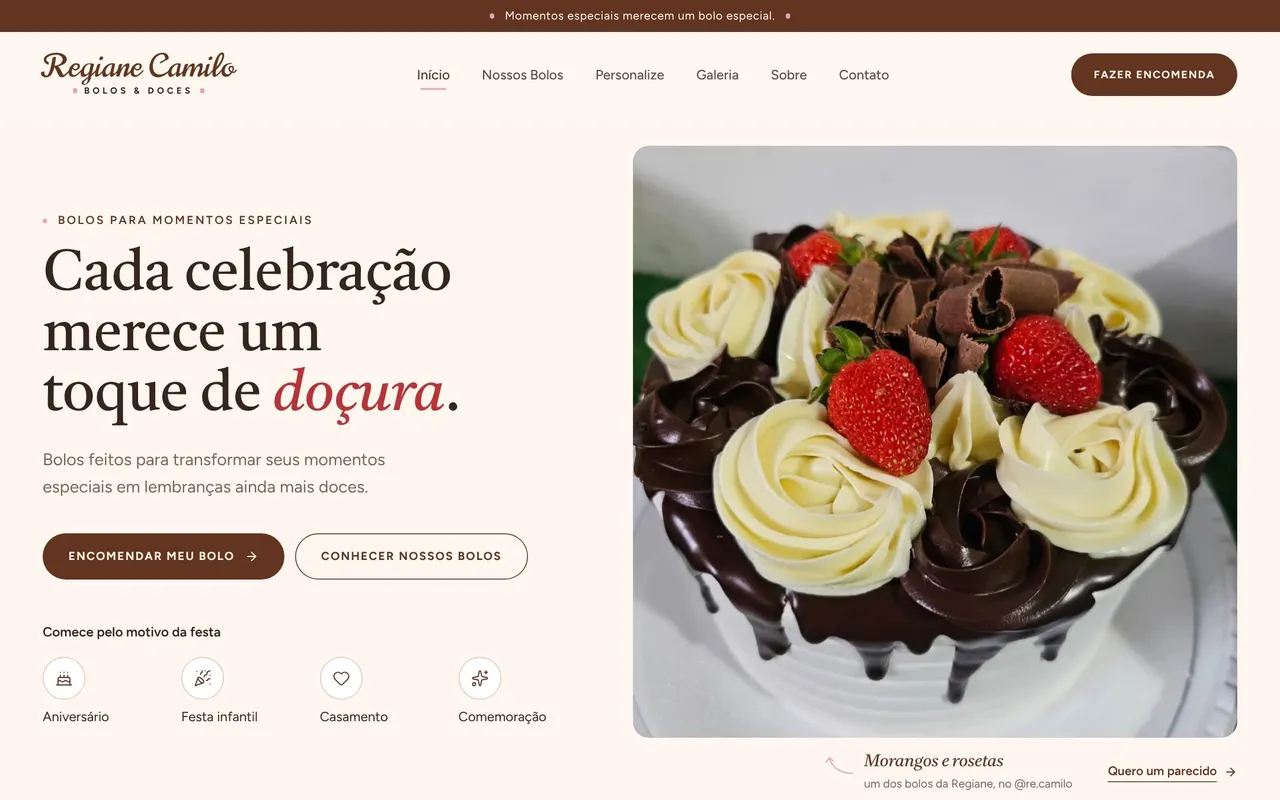
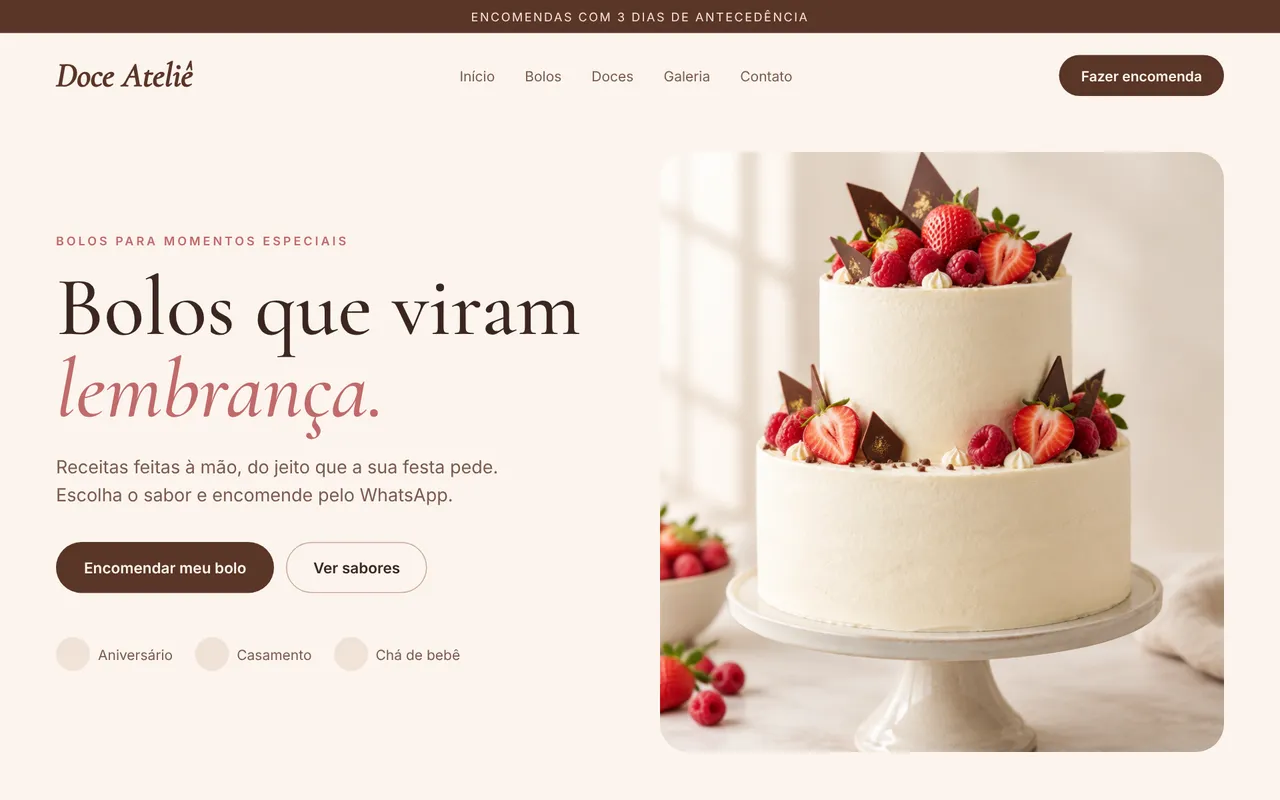
Growlift: modelos genéricos no lugar dos prints de clientes
Quatro sites fictícios (Brasa Burger, Varanda Bistrô, Doce Ateliê, Aurora
Advocacia) em tools/growlift-models, renderizados para growlift/img/site-*.webp;
fotos geradas no Higgsfield. Usados na seção dos sites que passam de lado e
em Modelos.

Claude-Session: https://claude.ai/code/session_0144E8K5YaHTVDtLe8swm1ug

diff --git a/growlift/index.html b/growlift/index.html
@@ -5,7 +5,7 @@
 <meta name="viewport" content="width=device-width, initial-scale=1">
 <title>Growlift · Sites, Google e Instagram para negócios locais</title>
 <meta name="description" content="A Growlift cria o site do seu negócio, deixa o Google em dia e coloca o pedido e o pagamento no seu site. Peça um diagnóstico grátis e receba a prévia do seu site no WhatsApp.">
-<!-- Pré-lançamento: os prints de clientes ainda não foram trocados pelos modelos. Tirar o noindex ao publicar. -->
+<!-- Pré-lançamento: tirar o noindex ao publicar. -->
 <meta name="robots" content="noindex, nofollow">
 <meta name="theme-color" content="#06080d">
 <link rel="icon" href="favicon.svg" type="image/svg+xml">
@@ -79,10 +79,10 @@
             <div class="bar" aria-hidden="true"><span class="dot"></span><span class="dot"></span><span class="dot"></span><span class="url">seunegocio.com.br</span></div>
             <div class="screen">
               <div class="slides">
-                <img src="img/site-hamburgueria.webp" alt="Exemplo de site de hamburgueria: fundo escuro e dourado com o burger em destaque" width="1280" height="720" loading="lazy">
-                <img src="img/site-restaurante.webp" alt="Exemplo de site de restaurante: varanda com vista para o mar" width="1280" height="800" loading="lazy">
-                <img src="img/site-confeitaria.webp" alt="Exemplo de site de confeitaria: bolo com morangos em destaque" width="1280" height="800" loading="lazy">
-                <img src="img/site-advocacia.webp" alt="Exemplo de site de escritório de advocacia: azul-marinho e dourado" width="1280" height="800" loading="lazy">
+                <img src="img/site-hamburgueria.webp" alt="Modelo fictício de site de hamburgueria: fundo escuro e dourado com o burger em destaque" width="1280" height="800" loading="lazy">
+                <img src="img/site-restaurante.webp" alt="Modelo fictício de site de restaurante: varanda com mesas e plantas" width="1280" height="800" loading="lazy">
+                <img src="img/site-confeitaria.webp" alt="Modelo fictício de site de confeitaria: bolo com morangos em destaque" width="1280" height="800" loading="lazy">
+                <img src="img/site-advocacia.webp" alt="Modelo fictício de site de escritório de advocacia: azul-marinho e dourado" width="1280" height="800" loading="lazy">
               </div>
             </div>
           </div>
@@ -111,19 +111,19 @@
       </div>
       <div class="models">
         <article class="model reveal">
-          <div class="pic"><img src="img/site-hamburgueria.webp" alt="Modelo de site para hamburgueria: fundo escuro e dourado com o burger em destaque" width="1280" height="720" loading="lazy"></div>
+          <div class="pic"><img src="img/site-hamburgueria.webp" alt="Modelo fictício de site para hamburgueria: fundo escuro e dourado com o burger em destaque" width="1280" height="800" loading="lazy"></div>
           <div class="cap"><div><h3>Hamburgueria e delivery</h3><p>Cardápio com animação, pedido e Pix no site</p></div><span class="tag">Lift</span></div>
         </article>
         <article class="model reveal d2">
-          <div class="pic"><img src="img/site-restaurante.webp" alt="Modelo de site para restaurante: varanda com vista para o mar" width="1280" height="800" loading="lazy"></div>
+          <div class="pic"><img src="img/site-restaurante.webp" alt="Modelo fictício de site para restaurante: varanda com mesas e plantas" width="1280" height="800" loading="lazy"></div>
           <div class="cap"><div><h3>Restaurante</h3><p>Cardápio completo, fotos e reserva</p></div><span class="tag">Grow</span></div>
         </article>
         <article class="model reveal d2">
-          <div class="pic"><img src="img/site-confeitaria.webp" alt="Modelo de site para confeitaria: bolo com morangos em destaque" width="1280" height="800" loading="lazy"></div>
+          <div class="pic"><img src="img/site-confeitaria.webp" alt="Modelo fictício de site para confeitaria: bolo com morangos em destaque" width="1280" height="800" loading="lazy"></div>
           <div class="cap"><div><h3>Confeitaria</h3><p>Galeria de bolos e encomenda pelo WhatsApp</p></div><span class="tag">Grow</span></div>
         </article>
         <article class="model reveal d2">
-          <div class="pic"><img src="img/site-advocacia.webp" alt="Modelo de site para escritório de advocacia: azul-marinho e dourado" width="1280" height="800" loading="lazy"></div>
+          <div class="pic"><img src="img/site-advocacia.webp" alt="Modelo fictício de site para escritório de advocacia: azul-marinho e dourado" width="1280" height="800" loading="lazy"></div>
           <div class="cap"><div><h3>Escritório e saúde</h3><p>Áreas de atuação, conteúdos e contato</p></div><span class="tag">Start</span></div>
         </article>
       </div>

diff --git a/tools/growlift-models/burger.html b/tools/growlift-models/burger.html
@@ -1,0 +1,20 @@
+<!doctype html><html lang="pt-BR"><head><meta charset="utf-8">
+<link href="https://fonts.googleapis.com/css2?family=Anton&family=Inter:wght@400;600;800&display=swap" rel="stylesheet">
+<style>
+*{box-sizing:border-box;margin:0}body{width:1280px;height:800px;overflow:hidden;background:#0b0907;color:#f4ead8;font-family:Inter,sans-serif}
+nav{display:flex;align-items:center;justify-content:space-between;padding:26px 56px}
+.logo{font-family:Anton,sans-serif;font-size:30px;letter-spacing:.04em;color:#e8b04a}.logo span{color:#f4ead8}
+.links{display:flex;gap:34px;font-size:14px;font-weight:600;letter-spacing:.08em;text-transform:uppercase;color:#cbbfa8}
+.cart{display:flex;gap:10px;align-items:center}.cart b{background:#e8b04a;color:#140f08;border-radius:99px;padding:10px 20px;font-size:14px}
+.hero{position:relative;height:690px;display:grid;grid-template-columns:1fr 1fr;align-items:center;padding:0 56px}
+h1{font-family:Anton,sans-serif;font-size:118px;line-height:.92;text-transform:uppercase;letter-spacing:.01em}h1 em{font-style:normal;color:#e8b04a}
+p.sub{margin-top:22px;font-size:19px;line-height:1.5;color:#cbbfa8;max-width:470px}
+.cta{display:flex;gap:14px;margin-top:34px}.cta b{background:#e8b04a;color:#140f08;padding:17px 30px;border-radius:99px;font-size:16px}.cta i{font-style:normal;border:1px solid #6d5a3b;padding:16px 28px;border-radius:99px;font-size:16px;font-weight:600}
+.pic{position:relative;height:620px}.pic img{position:absolute;inset:0;width:100%;height:100%;object-fit:cover;-webkit-mask-image:radial-gradient(closest-side,#000 72%,transparent)}
+.price{position:absolute;right:40px;bottom:110px;background:#16110b;border:1px solid #3a2e1d;border-radius:18px;padding:16px 22px}.price small{display:block;font-size:12px;letter-spacing:.12em;text-transform:uppercase;color:#a8977a}.price b{font-size:28px;color:#e8b04a}
+.glow{position:absolute;right:120px;top:120px;width:520px;height:520px;border-radius:50%;background:radial-gradient(closest-side,rgba(232,176,74,.22),transparent)}
+</style></head><body>
+<nav><div class="logo">BRASA<span> BURGER</span></div><div class="links"><span>Cardápio</span><span>Combos</span><span>Sobre</span><span>Contato</span></div><div class="cart"><b>Pedir agora</b></div></nav>
+<section class="hero"><div><h1>O burger<br>que vale<br><em>a fila.</em></h1><p class="sub">Blend da casa na brasa, pão brioche e queijo de verdade. Peça pelo site e acompanhe a entrega.</p><div class="cta"><b>Ver cardápio</b><i>Fazer pedido</i></div></div>
+<div class="pic"><div class="glow"></div><img src="burger.png" alt=""><div class="price"><small>Brasa Duplo</small><b>R$ 39,90</b></div></div></section>
+</body></html>

diff --git a/tools/growlift-models/advocacia.html b/tools/growlift-models/advocacia.html
@@ -1,0 +1,20 @@
+<!doctype html><html lang="pt-BR"><head><meta charset="utf-8">
+<link href="https://fonts.googleapis.com/css2?family=Cormorant+Garamond:wght@500;600&family=Inter:wght@400;600&display=swap" rel="stylesheet">
+<style>
+*{box-sizing:border-box;margin:0}body{width:1280px;height:800px;overflow:hidden;background:#0d1626;color:#eef1f6;font-family:Inter,sans-serif}
+.bg{position:absolute;inset:0;background:url(advocacia.png) right center/cover}.bg:after{content:'';position:absolute;inset:0;background:linear-gradient(90deg,#0d1626 0%,#0d1626 38%,rgba(13,22,38,.55) 64%,rgba(13,22,38,.25))}
+nav{position:relative;display:flex;align-items:center;justify-content:space-between;padding:26px 56px;border-bottom:1px solid rgba(255,255,255,.08)}
+.logo{font-family:'Cormorant Garamond',serif;font-size:26px;font-weight:600;letter-spacing:.06em}.logo small{display:block;font-family:Inter;font-size:10px;letter-spacing:.32em;text-transform:uppercase;color:#c2a26a;margin-top:2px}
+.links{display:flex;gap:30px;font-size:14px;color:#b9c2d3}.wa{border:1px solid #c2a26a;color:#e8d3a6;padding:11px 20px;border-radius:4px;font-size:14px}
+.hero{position:relative;padding:120px 56px 0;max-width:720px}
+.kick{font-size:12px;letter-spacing:.24em;text-transform:uppercase;color:#c2a26a;font-weight:600}
+h1{font-family:'Cormorant Garamond',serif;font-weight:500;font-size:70px;line-height:1.04;margin-top:20px}h1 em{font-style:normal;color:#c2a26a}
+p.sub{margin-top:24px;font-size:18px;line-height:1.6;color:#b9c2d3;max-width:520px}
+.cta{display:flex;gap:12px;margin-top:36px}.cta b{background:#c2a26a;color:#0d1626;padding:16px 26px;border-radius:4px;font-size:15px}.cta i{font-style:normal;border:1px solid rgba(255,255,255,.3);padding:15px 24px;border-radius:4px;font-size:15px;font-weight:600}
+.areas{display:flex;gap:28px;margin-top:56px;font-size:14px;color:#b9c2d3}.areas span{border-left:2px solid #c2a26a;padding-left:12px}
+</style></head><body>
+<div class="bg"></div>
+<nav><div class="logo">AURORA<small>Advocacia</small></div><div class="links"><span>Início</span><span>O escritório</span><span>Áreas de atuação</span><span>Conteúdos</span><span>Contato</span></div><div class="wa">Falar pelo WhatsApp</div></nav>
+<section class="hero"><div class="kick">Orientação jurídica</div><h1>Clareza para decidir<br>com <em>segurança.</em></h1><p class="sub">Atendimento a pessoas e empresas, com explicação simples de cada etapa do seu caso.</p><div class="cta"><b>Conhecer as áreas</b><i>Agendar conversa</i></div>
+<div class="areas"><span>Família</span><span>Trabalhista</span><span>Empresarial</span><span>Consumidor</span></div></section>
+</body></html>

diff --git a/tools/growlift-models/confeitaria.html b/tools/growlift-models/confeitaria.html
@@ -1,0 +1,21 @@
+<!doctype html><html lang="pt-BR"><head><meta charset="utf-8">
+<link href="https://fonts.googleapis.com/css2?family=Cormorant+Garamond:ital,wght@0,500;0,600;1,500&family=Inter:wght@400;600&display=swap" rel="stylesheet">
+<style>
+*{box-sizing:border-box;margin:0}body{width:1280px;height:800px;overflow:hidden;background:#fbf4ee;color:#3b2620;font-family:Inter,sans-serif}
+.strip{background:#5a3527;color:#f6e6dc;text-align:center;font-size:12px;letter-spacing:.14em;text-transform:uppercase;padding:9px}
+nav{display:flex;align-items:center;justify-content:space-between;padding:22px 56px}
+.logo{font-family:'Cormorant Garamond',serif;font-style:italic;font-size:34px;font-weight:600;color:#5a3527}
+.links{display:flex;gap:30px;font-size:14px;color:#7a5a4e}.order{background:#5a3527;color:#fbf4ee;padding:12px 22px;border-radius:99px;font-size:14px;font-weight:600}
+.hero{display:grid;grid-template-columns:1fr 1fr;gap:40px;padding:34px 56px 0;align-items:center}
+.kick{font-size:12px;letter-spacing:.22em;text-transform:uppercase;color:#c06a6a;font-weight:600}
+h1{font-family:'Cormorant Garamond',serif;font-weight:500;font-size:84px;line-height:.98;margin-top:18px}h1 em{color:#c06a6a}
+p.sub{margin-top:22px;font-size:18px;line-height:1.6;color:#7a5a4e;max-width:450px}
+.cta{display:flex;gap:12px;margin-top:32px}.cta b{background:#5a3527;color:#fbf4ee;padding:16px 28px;border-radius:99px;font-size:15px}.cta i{font-style:normal;border:1px solid #c9a99b;padding:15px 26px;border-radius:99px;font-size:15px;font-weight:600}
+.cats{display:flex;gap:22px;margin-top:44px;font-size:14px;color:#7a5a4e}.cats span{display:flex;align-items:center;gap:8px}.cats span:before{content:'';width:34px;height:34px;border-radius:50%;background:#f1e2d8}
+.pic{height:600px;border-radius:28px;overflow:hidden}.pic img{width:100%;height:100%;object-fit:cover}
+</style></head><body>
+<div class="strip">Encomendas com 3 dias de antecedência</div>
+<nav><div class="logo">Doce Ateliê</div><div class="links"><span>Início</span><span>Bolos</span><span>Doces</span><span>Galeria</span><span>Contato</span></div><div class="order">Fazer encomenda</div></nav>
+<section class="hero"><div><div class="kick">Bolos para momentos especiais</div><h1>Bolos que viram<br><em>lembrança.</em></h1><p class="sub">Receitas feitas à mão, do jeito que a sua festa pede. Escolha o sabor e encomende pelo WhatsApp.</p><div class="cta"><b>Encomendar meu bolo</b><i>Ver sabores</i></div>
+<div class="cats"><span>Aniversário</span><span>Casamento</span><span>Chá de bebê</span></div></div><div class="pic"><img src="confeitaria.png" alt=""></div></section>
+</body></html>

diff --git a/tools/growlift-models/restaurante.html b/tools/growlift-models/restaurante.html
@@ -1,0 +1,19 @@
+<!doctype html><html lang="pt-BR"><head><meta charset="utf-8">
+<link href="https://fonts.googleapis.com/css2?family=Fraunces:opsz,wght@9..144,400;9..144,600&family=Inter:wght@400;600&display=swap" rel="stylesheet">
+<style>
+*{box-sizing:border-box;margin:0}body{width:1280px;height:800px;overflow:hidden;background:#f6f1e7;color:#23302a;font-family:Inter,sans-serif}
+nav{display:flex;align-items:center;justify-content:space-between;padding:26px 56px;border-bottom:1px solid #e3dccd}
+.logo{font-family:Fraunces,serif;font-size:28px;font-weight:600;color:#2f4a3c}.logo small{font-family:Inter;font-size:11px;letter-spacing:.3em;text-transform:uppercase;color:#8a8170;margin-left:10px}
+.links{display:flex;gap:30px;font-size:14px;color:#5b6359}.res{background:#2f4a3c;color:#f6f1e7;padding:12px 22px;border-radius:6px;font-size:14px;font-weight:600}
+.hero{display:grid;grid-template-columns:1fr 1.15fr;height:704px}
+.copy{padding:96px 56px 0}.kick{font-size:12px;letter-spacing:.24em;text-transform:uppercase;color:#a07a43;font-weight:600}
+h1{font-family:Fraunces,serif;font-weight:400;font-size:66px;line-height:1.04;margin-top:20px}h1 em{color:#a07a43}
+p.sub{margin-top:24px;font-size:18px;line-height:1.6;color:#5b6359;max-width:440px}
+.cta{display:flex;gap:12px;margin-top:34px}.cta b{background:#2f4a3c;color:#f6f1e7;padding:16px 26px;border-radius:6px;font-size:15px}.cta i{font-style:normal;border:1px solid #2f4a3c;padding:15px 24px;border-radius:6px;font-size:15px;font-weight:600}
+.hours{margin-top:46px;display:flex;gap:36px;font-size:14px;color:#5b6359}.hours b{display:block;color:#23302a;font-size:15px;margin-bottom:4px}
+.pic img{width:100%;height:100%;object-fit:cover}
+</style></head><body>
+<nav><div class="logo">Varanda<small>Bistrô</small></div><div class="links"><span>Início</span><span>Cardápio</span><span>A casa</span><span>Eventos</span><span>Contato</span></div><div class="res">Reservar mesa</div></nav>
+<section class="hero"><div class="copy"><div class="kick">Cozinha brasileira · almoço e jantar</div><h1>Comida de casa,<br>mesa na <em>varanda.</em></h1><p class="sub">Pratos do dia feitos com ingredientes frescos, num lugar arejado e cheio de verde.</p><div class="cta"><b>Ver cardápio</b><i>Reservar mesa</i></div>
+<div class="hours"><div><b>Almoço</b>Ter a dom · 12h às 15h</div><div><b>Jantar</b>Qui a sáb · 19h às 23h</div></div></div><div class="pic"><img src="restaurante.png" alt=""></div></section>
+</body></html>
